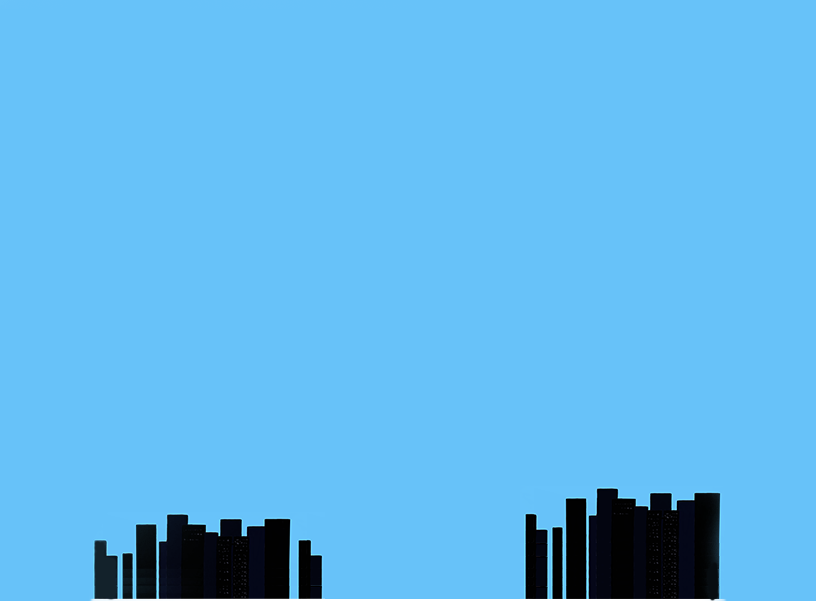
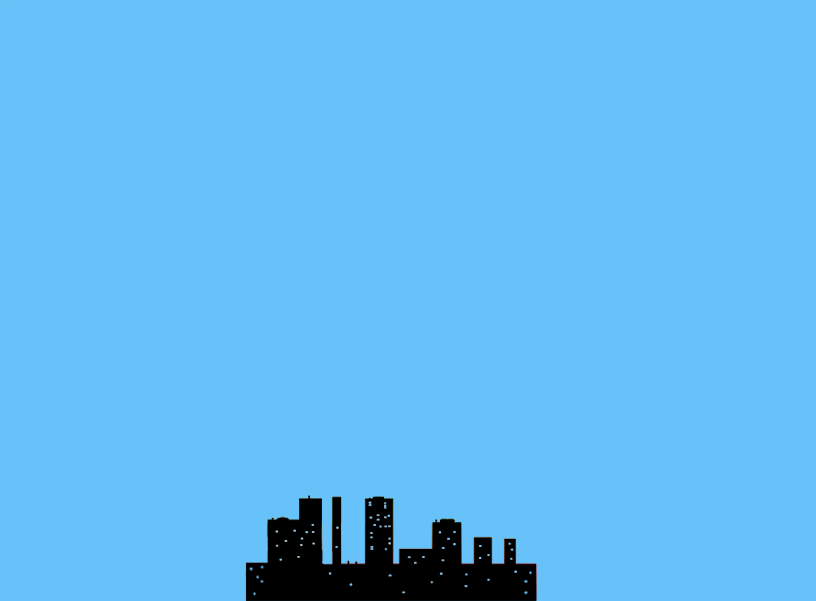
menustate

Changed region(s): [[0.0919, 0.8087, 0.8885, 1.0]]

diff --git a/core/src/de/mi/ur/states/PlayState.java b/core/src/de/mi/ur/states/PlayState.java
@@ -81,7 +81,7 @@ public class PlayState extends State {
         phone3 = new AnswerPhones(500, 200, flyingPhone3);
         phone4 = new AnswerPhones(550, 200, flyingPhone4);
 
-        background = new Texture("bg_sunny_neew.png");
+        background = new Texture("bg_sunny.png");
 
         //background = getBackgroundWeather(gameManager);
         score = new Score();
@@ -107,6 +107,7 @@ public class PlayState extends State {
             //pits.add(new Pit(i * (ConstantsGame.PIT_OFFSET + ConstantsGame.PIT_WIDTH)));
 
         }
+
         groundPos1 = new Vector2(cam.position.x - cam.viewportWidth / 2, ConstantsGame.GROUND_Y_OFFSET);
         groundPos2 = new Vector2((cam.position.x - cam.viewportWidth / 2) + ground.getWidth(), ConstantsGame.GROUND_Y_OFFSET);
         bgPos1 = new Vector2(cam.position.x - cam.viewportWidth / 2, ConstantsGame.BACKGROUND_Y_POS);
@@ -253,6 +254,7 @@ public class PlayState extends State {
                     case ConstantsGame.PIT_TYPE:
                         saveScore();
                         gameManager.set(new MenueState(gameManager));
+
                         break;
                     case ConstantsGame.WOMAN_TYPE:
                         counter++;

diff --git a/core/src/de/mi/ur/sprites/Woman.java b/core/src/de/mi/ur/sprites/Woman.java
@@ -21,9 +21,9 @@ public class Woman extends Obstacle {
 
 
     public Woman(float x) {
-        super(x, ConstantsGame.WOMAN_Y, new Texture("obstacle_small.png"), ConstantsGame.WOMAN_TYPE);
+        super(x, ConstantsGame.WOMAN_Y, new Texture("woman.png"), ConstantsGame.WOMAN_TYPE);
 
-        woman = new Texture("obstacle_small.png");
+        woman = new Texture("woman.png");
         random = new Random();
         womanPos = new Vector2(x, ConstantsGame.WOMAN_Y);
         bounds = new Rectangle(womanPos.x, womanPos.y, woman.getWidth() + ConstantsGame.BOUNDS_OFFSET, woman.getHeight());

diff --git a/core/src/de/mi/ur/states/MenueState.java b/core/src/de/mi/ur/states/MenueState.java
@@ -20,8 +20,12 @@ public class MenueState extends State {
         super(gameManager);
         Score.thisCounter = 0;
         Score.state = 0;
-        cam.setToOrtho(false, NerdyNumeralChallenge.WIDTH/2, NerdyNumeralChallenge.HEIGHT/2);
-        background = new Texture("background_final.png");
+
+        cam.setToOrtho(false, NerdyNumeralChallenge.WIDTH, NerdyNumeralChallenge.HEIGHT);
+
+        background = new Texture("menuscreen.png");
+
+
         playButton = new Texture("playbtn.png");
     }
 

diff --git a/core/src/de/mi/ur/gameLogic/Score.java b/core/src/de/mi/ur/gameLogic/Score.java
@@ -38,7 +38,7 @@ public class Score {
         currentScore = "Score: 0";
         scoreFont = new BitmapFont(Gdx.files.internal("goodTimesNew.fnt"));
         heartFilled = new Texture("heart_filled.png");
-        heartEmpty = new Texture("heart_empty_empty.png");
+        heartEmpty = new Texture("heart_empty.png");
         scoreFont.setUseIntegerPositions(false);
 
 
